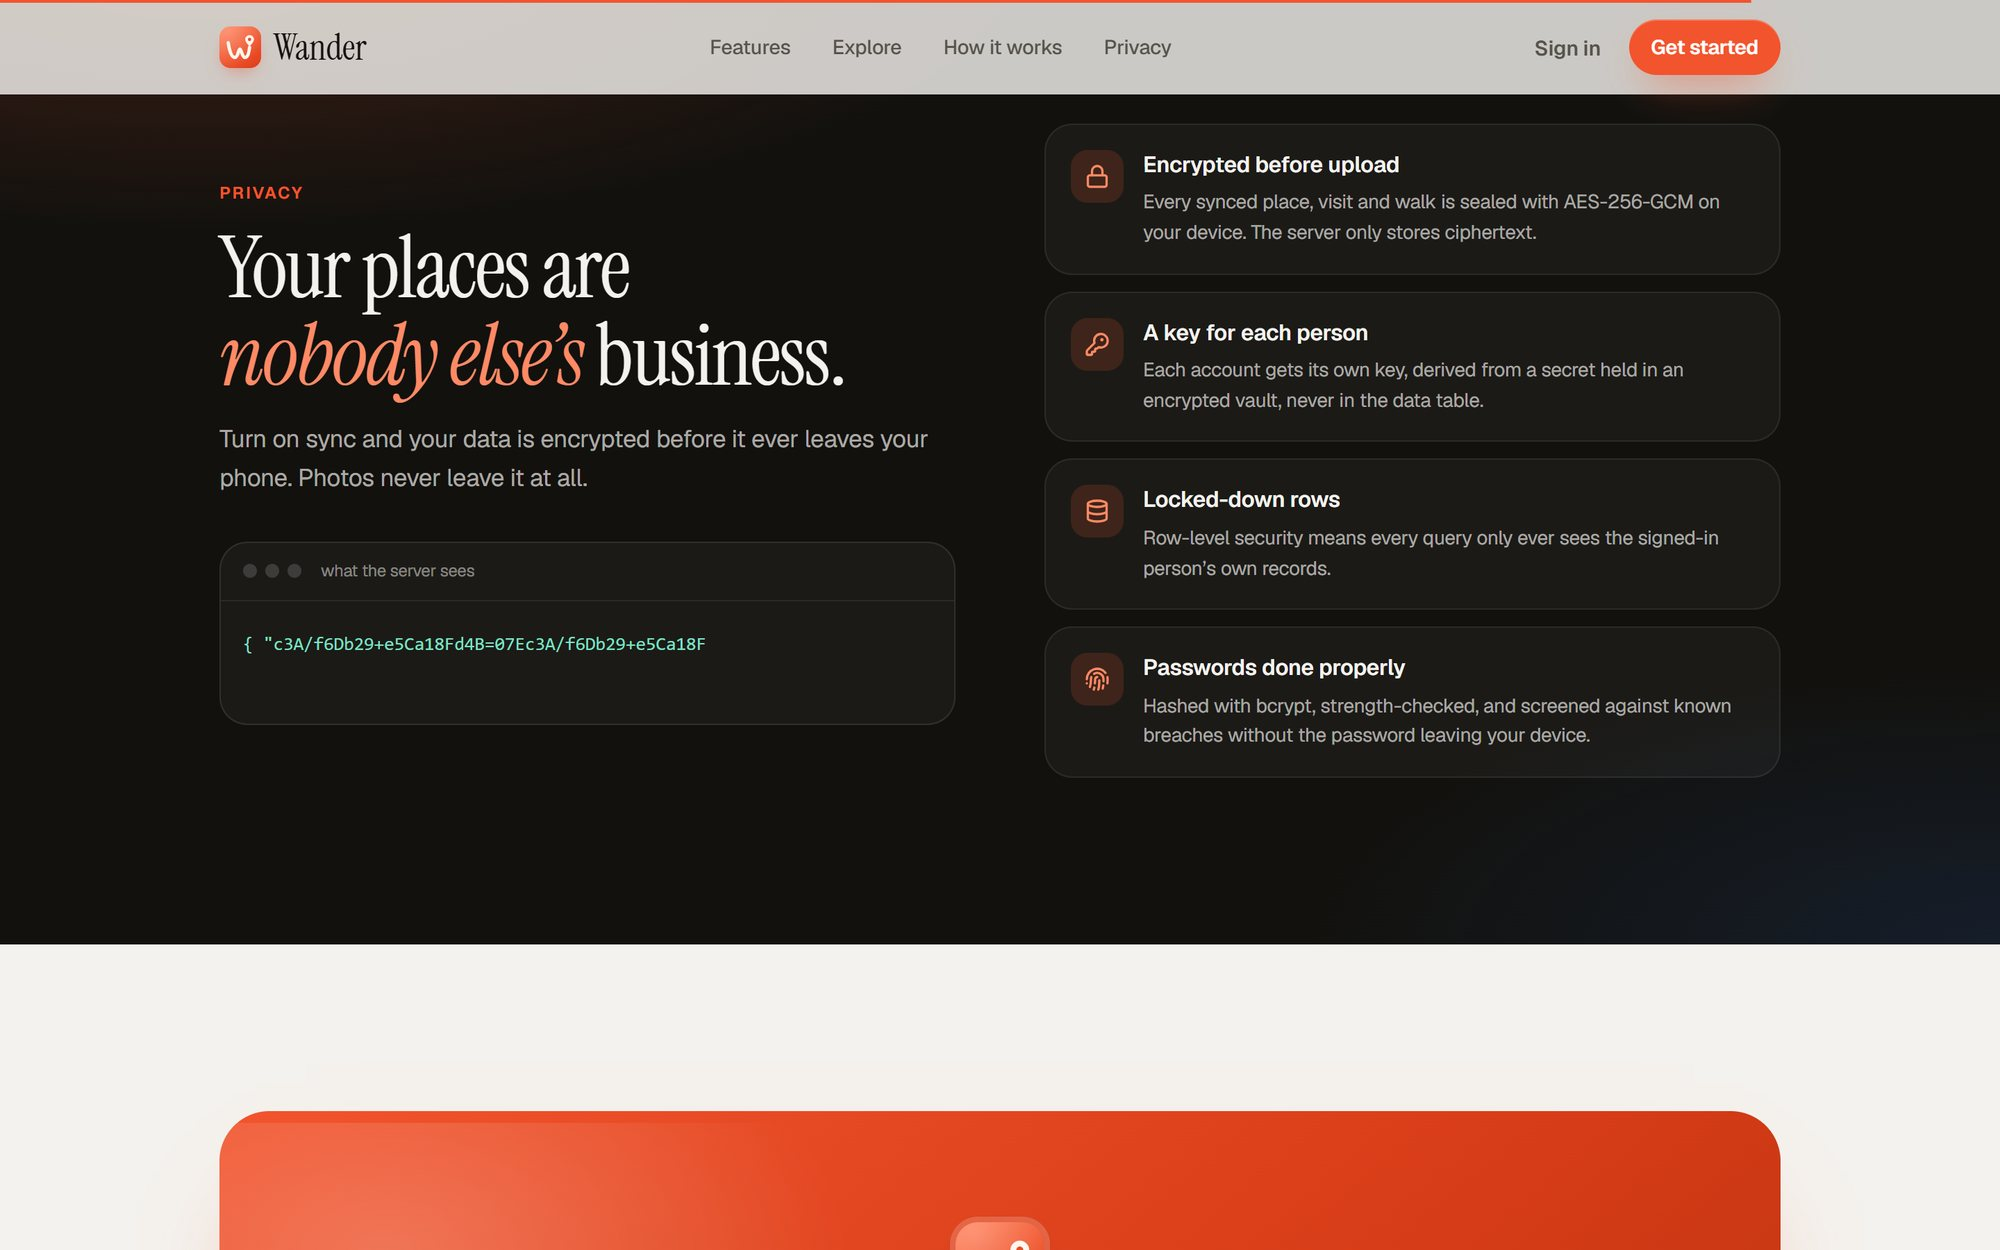
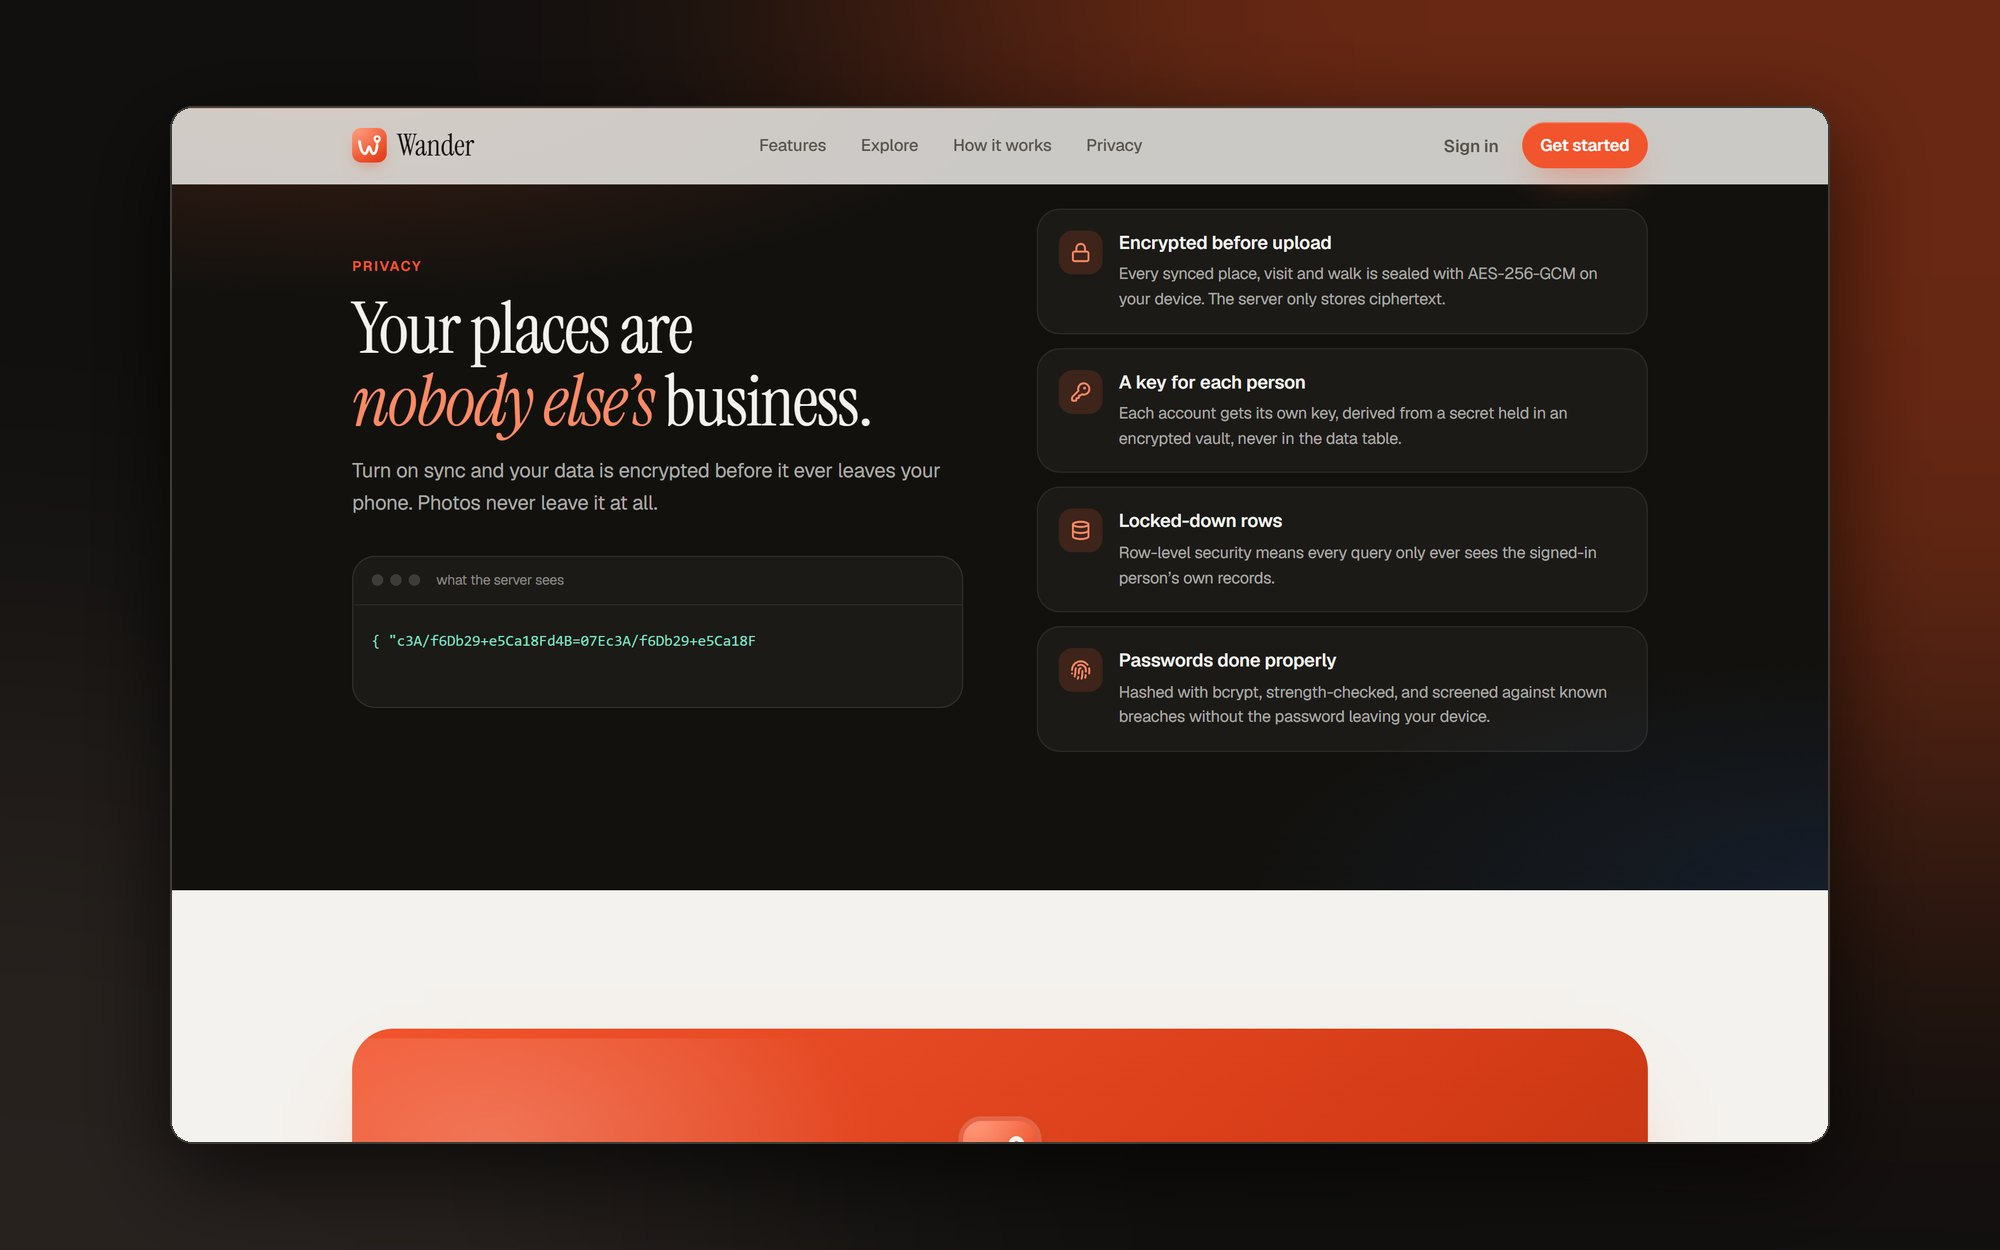
Use real app screenshots for Cram and Wander case studies
- Cram: framed landing hero plus six in-app screens (dashboard, folder,
  quiz history, pomodoro, planner, search) with captions; email blurred
- Wander: framed landing hero, three-up phone frames (explore, walks,
  memories) and the encrypted-sync section; live location dot removed
  and route-start map areas frosted for privacy
- Gallery items support captions

diff --git a/src/content.ts b/src/content.ts
@@ -119,8 +119,13 @@ export const projects: Project[] = [
     role: "Solo · product, design & engineering",
     tags: ["Local-first", "PWA", "AI", "Geospatial"],
     stack: ["React", "TypeScript", "Vite PWA", "MapLibre GL", "OpenFreeMap", "Dexie / IndexedDB", "Turf.js", "Supabase", "Cloudflare Workers", "openrouteservice", "Overpass API", "Open-Meteo", "SunCalc", "Gemini API", "Motion"],
-    image: "/wander/hero.jpg",
-    gallery: ["/wander/checkin.jpg", "/wander/privacy.jpg", "/wander/features.jpg"],
+    image: "/wander/landing.jpg",
+    gallery: [
+      { src: "/wander/explore.jpg", caption: "Explore by mood, real places nearby and outings timed to fit an hour" },
+      { src: "/wander/walks.jpg", caption: "Place cards, sunset- and weather-aware walk timing, and loops from where you are" },
+      { src: "/wander/memories.jpg", caption: "Your map, a journal of visits and notes, and places that level up" },
+      { src: "/wander/privacy.jpg", caption: "Sync is end-to-end encrypted, so the server only ever sees ciphertext" },
+    ],
     live: "https://wander-one-eta.vercel.app",
     github: "https://github.com/harshitaphadtare/Wander",
     metrics: [
